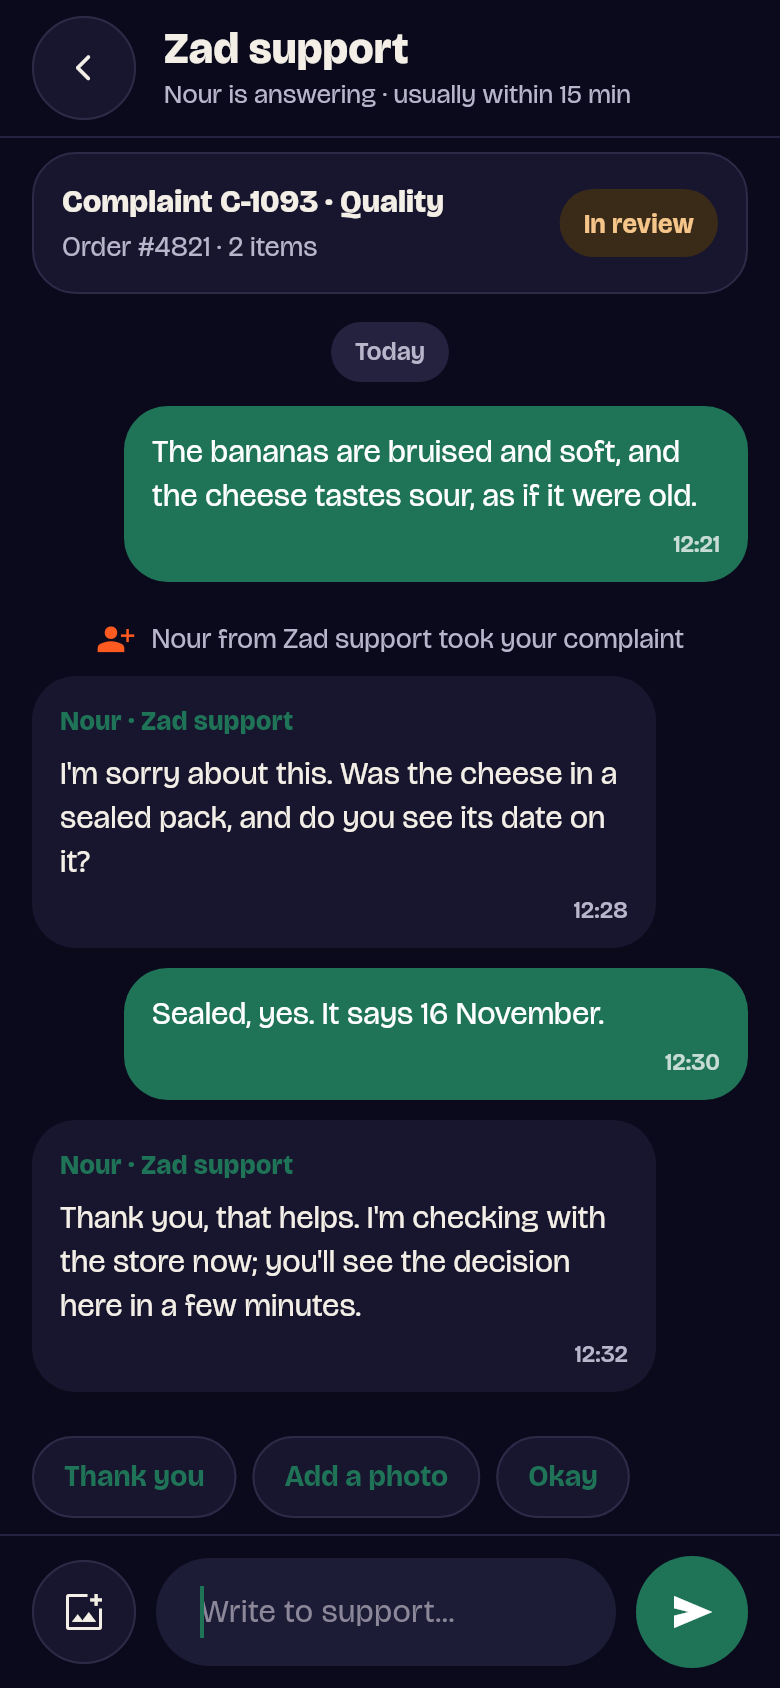
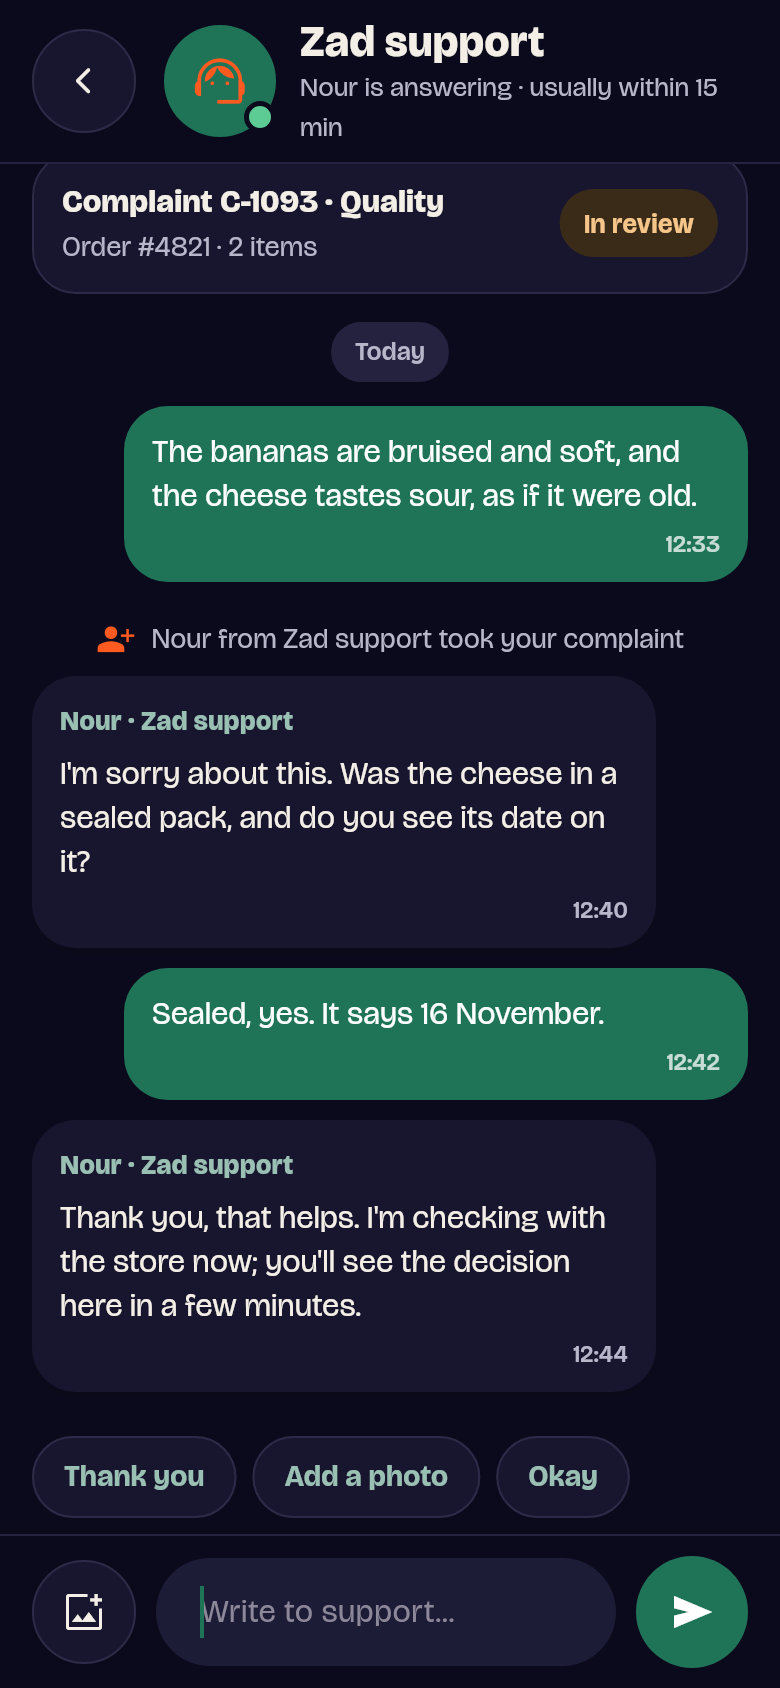
Complaints: support's mark in the app's conversation, the brand colour readable at night, the app's strings copy, the e2e waits for the decision, the QA pictures next to the approved designs
Claude-Session: https://claude.ai/code/session_01PYAXYap8KRbiRQqG6wPsvL

diff --git a/mobile/lib/modules/market/screens/market_complaint_screens.dart b/mobile/lib/modules/market/screens/market_complaint_screens.dart
@@ -124,6 +124,11 @@ String complaintStatusText(AppLocalizations l10n, ComplaintStatus s) =>
       ComplaintStatus.rejected => l10n.marketComplaintRejected,
     };
 
+/// The brand colour as text and icons on cards: lightened at night so it
+/// reads on dark surfaces (the designs' mint).
+Color _ink(AppPalette p) =>
+    p.isDark ? Color.lerp(p.primary, Colors.white, 0.55)! : p.primary;
+
 /// The app's name, as "`<App name>` support" says it.
 String _appName(WidgetRef ref) => ref.watch(appConfigProvider).site.name;
 
@@ -210,9 +215,13 @@ class _Header extends StatelessWidget {
     required this.title,
     this.subtitle,
     this.trailing,
+    this.avatar,
   });
 
   final Widget leading;
+
+  /// Before the title: support's round mark (06b).
+  final Widget? avatar;
   final String title;
   final Widget? subtitle;
   final Widget? trailing;
@@ -237,6 +246,7 @@ class _Header extends StatelessWidget {
         children: [
           leading,
           const SizedBox(width: 14),
+          if (avatar != null) ...[avatar!, const SizedBox(width: 12)],
           Expanded(
             child: Column(
               crossAxisAlignment: CrossAxisAlignment.start,
@@ -781,7 +791,7 @@ class _ReasonTile extends StatelessWidget {
                   _reasonIcon(reason),
                   size: 28,
                   fill: selected ? 1 : 0,
-                  color: selected ? p.primary : p.textBody,
+                  color: selected ? _ink(p) : p.textBody,
                 ),
                 const SizedBox(height: 6),
                 Text(
@@ -791,7 +801,7 @@ class _ReasonTile extends StatelessWidget {
                     fontSize: 13.5,
                     height: 1.15,
                     fontWeight: selected ? FontWeight.w700 : FontWeight.w600,
-                    color: selected ? p.primary : p.text,
+                    color: selected ? _ink(p) : p.text,
                   ),
                 ),
               ],
@@ -971,14 +981,14 @@ class _AddPhotoTile extends StatelessWidget {
         borderRadius: BorderRadius.circular(18),
         onTap: onTap,
         child: CustomPaint(
-          painter: _DashedBorder(color: p.primary, radius: 18),
+          painter: _DashedBorder(color: _ink(p), radius: 18),
           child: SizedBox(
             width: 74,
             height: 74,
             child: Column(
               mainAxisAlignment: MainAxisAlignment.center,
               children: [
-                Icon(Symbols.add_a_photo, size: 24, color: p.primary),
+                Icon(Symbols.add_a_photo, size: 24, color: _ink(p)),
                 const SizedBox(height: 2),
                 Text(
                   label,
@@ -987,7 +997,7 @@ class _AddPhotoTile extends StatelessWidget {
                   style: TextStyle(
                     fontSize: 13,
                     fontWeight: FontWeight.w700,
-                    color: p.primary,
+                    color: _ink(p),
                   ),
                 ),
               ],
@@ -1046,7 +1056,7 @@ class _TextArea extends StatelessWidget {
       decoration: BoxDecoration(
         color: p.surface,
         borderRadius: BorderRadius.circular(20),
-        border: Border.all(color: p.primary, width: 1.5),
+        border: Border.all(color: _ink(p), width: 1.5),
       ),
       child: Column(
         crossAxisAlignment: CrossAxisAlignment.end,
@@ -1303,6 +1313,7 @@ class _ChatViewState extends ConsumerState<_ChatView> {
             label: l10n.back,
             onPressed: widget.onBack ?? () => Navigator.of(context).maybePop(),
           ),
+          avatar: const _SupportAvatar(),
           title: support,
           subtitle: Text(
             agent == null ? l10n.mcAnsweringNobody : l10n.mcAnswering(agent),
@@ -1490,6 +1501,42 @@ class _ChatViewState extends ConsumerState<_ChatView> {
   }
 }
 
+/// Support's round mark with the dot that says it answers here.
+class _SupportAvatar extends StatelessWidget {
+  const _SupportAvatar();
+
+  @override
+  Widget build(BuildContext context) {
+    final p = context.palette;
+    return SizedBox(
+      width: 56,
+      height: 56,
+      child: Stack(
+        children: [
+          Container(
+            decoration: BoxDecoration(shape: BoxShape.circle, color: p.primary),
+            alignment: Alignment.center,
+            child: Icon(Symbols.support_agent, size: 30, color: p.accent),
+          ),
+          PositionedDirectional(
+            end: 0,
+            bottom: 2,
+            child: Container(
+              width: 16,
+              height: 16,
+              decoration: BoxDecoration(
+                shape: BoxShape.circle,
+                color: p.success,
+                border: Border.all(color: p.background, width: 2.5),
+              ),
+            ),
+          ),
+        ],
+      ),
+    );
+  }
+}
+
 class _TicketCard extends StatelessWidget {
   const _TicketCard({required this.complaint, required this.order});
 
@@ -1651,7 +1698,7 @@ class _Bubble extends StatelessWidget {
                 style: TextStyle(
                   fontSize: 13.5,
                   fontWeight: FontWeight.w800,
-                  color: p.primary,
+                  color: _ink(p),
                 ),
               ),
               const SizedBox(height: 6),
@@ -1722,7 +1769,7 @@ class _QuickChip extends StatelessWidget {
             style: TextStyle(
               fontSize: 15,
               fontWeight: FontWeight.w700,
-              color: p.primary,
+              color: _ink(p),
             ),
           ),
         ),

diff --git a/platform/web/tests/e2e/market-complaints.spec.ts b/platform/web/tests/e2e/market-complaints.spec.ts
@@ -166,6 +166,8 @@ for (const lang of ["en", "ar"] as const) {
     await admin.getByText(L.wallet, { exact: true }).click();
     await shot(admin, `12-dashboard-complaint-${lang}`);
     await admin.getByRole("button", { name: L.decide }).click();
+    // Decided: the form is gone and the card says what was decided.
+    await expect(admin.getByRole("button", { name: L.decide })).toHaveCount(0);
     await expect(admin.locator("#h-decision").locator("..")).toContainText(L.decided);
 
     // 4. The customer sees it: the decision, the support person's name and the wallet's credit.

diff --git a/docs/qa/2026-11-18-market-complaints/README.md b/docs/qa/2026-11-18-market-complaints/README.md
@@ -1,0 +1,51 @@
+# Marketplace complaints (115.50–115.55): what was built, next to the approved designs
+
+The approved designs are `docs/design/2026-11-18-marketplace/png/` (branch
+`wip-marketplace-designs`): 06a, 06b, 06c (card, wallet, coupon, declined),
+11 and 12.
+
+- `side-by-side/`: each approved PNG on the left and the build on the right,
+  at the same width.
+- The other PNGs are the build alone:
+  - **App (06a–06c):** Flutter widget renders with the app's bundled fonts,
+    390 × 844 at 2×, at text scale 1. They come from
+    `mobile/test/widget/phase115_complaint_design_test.dart` with
+    `--dart-define=YALLAPP_SHOTS_OUT=<folder> --dart-define=YALLAPP_SCALE=1`.
+    The same test runs every screen at text scale 1.3 with no picture.
+  - **Dashboard (11, 12):** Playwright on a production build, 1440 wide,
+    light and dark, on Studio's demo Zad. They come from
+    `platform/web/tests/e2e/market-complaints.spec.ts` with
+    `COMPLAINTS_SHOTS=<folder>`.
+
+## Where the build differs from the designs, and why
+
+- **The app's colours are the client's branding.** The test uses Zad's green
+  with the app's default second colour, so the amber accents and the night
+  palette come out as the app's own. Studio's Zad theme gives the design's
+  amber and night.
+- **No product photos in the test data.** Lines and photos show the app's
+  placeholders.
+- **The card's last four digits ("Card •• 4242").** Orders don't keep them,
+  so the card decision says "To: Card", or Apple Pay or Google Pay.
+- **"Applied by itself at checkout"** is now "Enter it at checkout". A
+  complaint's coupon is a code and the checkout doesn't apply codes by
+  itself, so the approved line would not be true.
+- **06b's typing dots are left out.** The ticket's thread has no "typing"
+  signal.
+- **11's "Edit" link on the ready replies is left out.** Ready replies are
+  fixed in `lib/market/complaints.ts` and there's no editor for them.
+- **Dashboard icons.**
+  - The dashboard's icon font is a fixed subset (`components/icon-names.ts`).
+    Adding glyphs means regenerating that shared file, so these use icons
+    already in it:
+    - "Take it" uses `how_to_reg`, not `person_add`;
+    - the sort uses `list`, not `sort`;
+    - Decide uses `task_alt`, not `gavel`;
+    - the ready-reply cards use `chat`, not `chat_bubble`.
+  - The app uses the design's Material Symbols Rounded icons.
+- **Arabic agent wording.** The designs' "تولّت نور" and "نور ترد" are
+  feminine verbs. The name can be anyone's, so the app uses gender-neutral
+  forms: "شكواك الآن لدى نور من دعم زاد" and "الرد من نور".
+- **The people in the dashboard shots.** "Support" and "Complaints" are the
+  end-to-end tests' admin accounts. The tickets are the demo's and the
+  spec's own.
